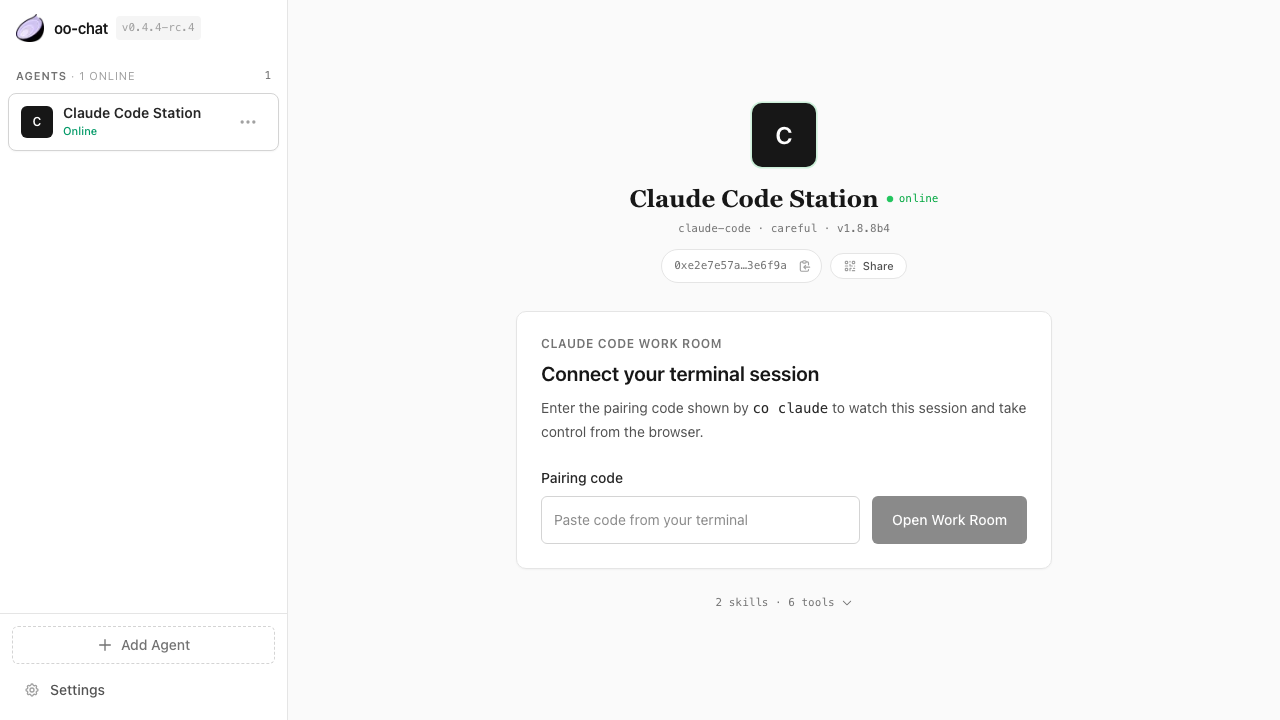
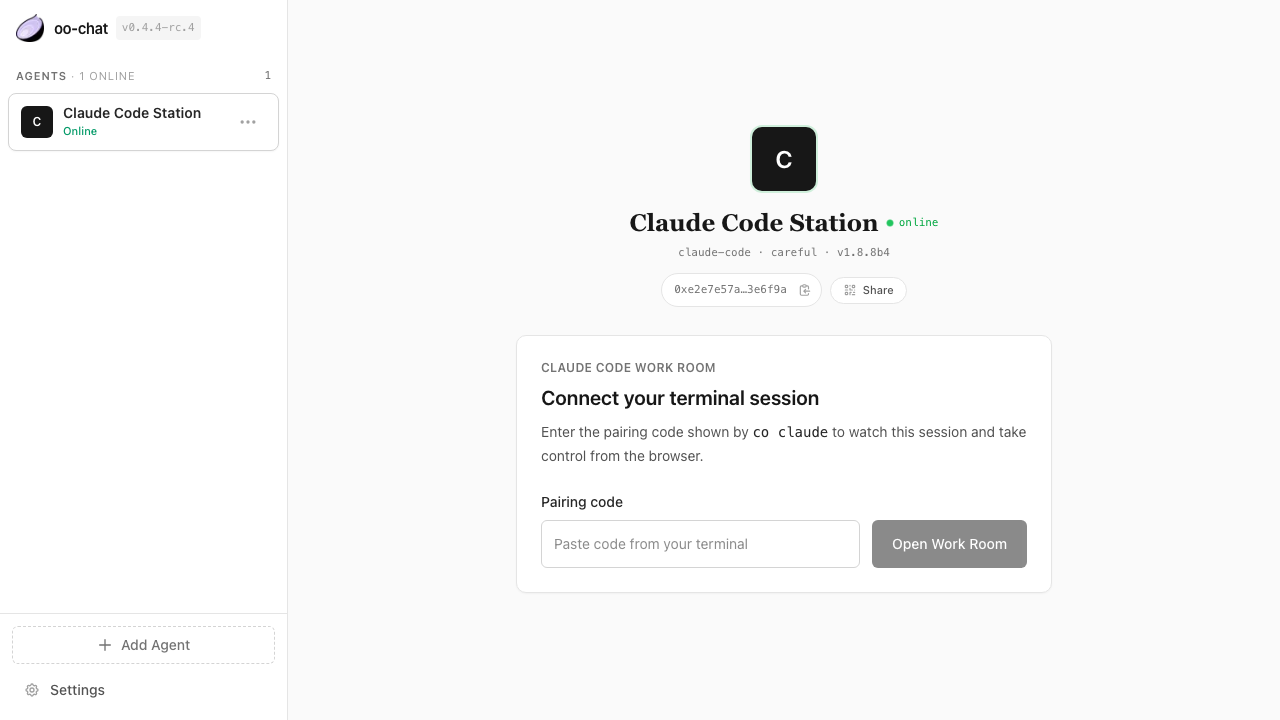
fix(chat): keep station UI on the shared design tokens

diff --git a/app/[address]/page.tsx b/app/[address]/page.tsx
@@ -350,7 +350,7 @@ export default function AgentLandingPage() {
             {!needsOnboard && isClaudeStation && (
               <form onSubmit={(event) => { event.preventDefault(); void pairClaudeStation() }}
                 className="reveal rounded-2xl border border-neutral-200 bg-white p-5 shadow-sm sm:p-6">
-                <p className="mb-2 text-xs font-semibold uppercase tracking-wider text-neutral-500">Claude Code Work Room</p>
+                <p className="mb-2 text-xs font-semibold uppercase tracking-wide text-neutral-500">Claude Code Work Room</p>
                 <h2 className="mb-2 text-xl font-semibold text-neutral-900">Connect your terminal session</h2>
                 <p className="mb-6 text-sm leading-6 text-neutral-600">
                   Enter the pairing code shown by <span className="font-mono text-neutral-800">co claude</span> to watch this session and take control from the browser.

diff --git a/app/[address]/[sessionId]/page.tsx b/app/[address]/[sessionId]/page.tsx
@@ -364,7 +364,7 @@ export default function ChatSessionPage() {
             <div className="mx-auto flex max-w-3xl flex-wrap items-center justify-between gap-4">
               <div className="min-w-0">
                 <p className="mb-1 flex items-center gap-2 text-sm font-semibold text-neutral-900">
-                  <span className={`h-2 w-2 shrink-0 rounded-full ${stationAction === 'release' ? 'bg-green-500' : 'bg-neutral-400'}`} aria-hidden="true" />
+                  <span className={`h-2 w-2 shrink-0 rounded-full ${stationAction === 'release' ? 'bg-brand-500' : 'bg-neutral-400'}`} aria-hidden="true" />
                   Claude Code session
                 </p>
                 <p className="text-sm text-neutral-600" aria-live="polite">

diff --git a/e2e/mock-agent.ts b/e2e/mock-agent.ts
@@ -119,7 +119,7 @@ export async function mockAgent(
   const profile = { ...PROFILE, ...overrides,
     ...(scenario === 'claude-station' && {
       name: 'Claude Code Station', model: 'claude-code', version: '1.8.8b4',
-      balance_usd: undefined, provider_station: 'claude_code',
+      balance_usd: undefined, tools: [], skills: [], provider_station: 'claude_code',
     }) }
   /** Per-call, so the drop scenario interrupts one connection rather than all of them. */
   let dropped = false
